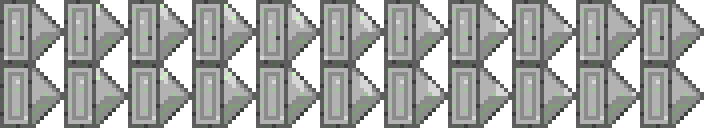
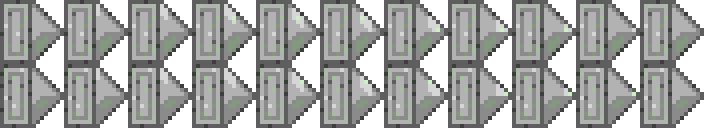
Added death screen

diff --git a/lib/game/game-root.dart b/lib/game/game-root.dart
@@ -5,7 +5,6 @@ import 'package:meta/meta.dart';
 import 'package:flame/flame.dart';
 import 'package:flame/game.dart';
 import 'package:flame/text_config.dart';
-import 'package:flame/components/component.dart';
 
 import 'package:flutter/gestures.dart';
 
@@ -15,6 +14,7 @@ import 'package:ordered_set/comparing.dart';
 import 'package:game_one/model.dart';
 import 'package:game_one/game/player.dart';
 import 'package:game_one/game/row.dart';
+import 'package:game_one/game/you-died.dart';
 import 'package:game_one/game/components/text.dart';
 import 'package:game_one/game/components/base.dart';
 
@@ -30,6 +30,7 @@ class GameRoot extends Game {
 
   Player player;
   GameRow lastRow;
+  YouDied deathScreen;
 
   GameText rowDebugText;
 
@@ -40,28 +41,31 @@ class GameRoot extends Game {
   void init() async {
     resize(await Flame.util.initialDimensions());
 
-    Flame.util.addGestureRecognizer(_createDragRecognizer());
-    Flame.util.addGestureRecognizer(_createTapRecognizer());
-
     rand = Random();
 
     await Flame.images.loadAll(<String>[
       'flame.png',
-      'flame-1.png',
-      'flame-2.png',
-      'flame-3.png',
-      'flame-4.png',
-      'flame-5.png',
+      'ground-0.png',
       'ground-1.png',
       'ground-2.png',
       'ground-3.png',
-      'ground-4.png',
+      'wall-0-L.png',
       'wall-1-L.png',
       'wall-2-L.png',
-      'wall-3-L.png',
+      'wall-0-R.png',
       'wall-1-R.png',
       'wall-2-R.png',
-      'wall-3-R.png',
+      'death-screen-10.png',
+      'death-screen-20.png',
+      'death-screen-30.png',
+      'death-screen-40.png',
+      'death-screen-50.png',
+      'death-screen-60.png',
+      'death-screen-70.png',
+      'death-screen-80.png',
+      'death-screen-90.png',
+      'death-screen-100.png',
+      'restart.png',
     ]);
 
     print('INITIALIZED GAME');
@@ -72,6 +76,7 @@ class GameRoot extends Game {
     posX = screenSize.width / 2;
     rowsAdded = 0;
     hasLost = false;
+    deathScreen = null;
 
     resize(screenSize);
 
@@ -185,11 +190,15 @@ class GameRoot extends Game {
       hasLost = true;
 
       player.die();
+      deathScreen = YouDied(model: this.model);
+      add(deathScreen);
+      deathScreen.init();
     }
   }
 
   void _updateLost(double t) {
     player.update(t);
+    deathScreen.update(t);
   }
 
   @override
@@ -207,21 +216,9 @@ class GameRoot extends Game {
     posX = position.dx;
   }
 
-  void handleTap(TapUpDetails details) {
-  }
-
-
-  // Util functions
-  GestureRecognizer _createDragRecognizer() {
-    PanGestureRecognizer pan = new PanGestureRecognizer();
-    pan.onDown   = (DragDownDetails position)   => this.handleDrag(position.globalPosition);
-    pan.onUpdate = (DragUpdateDetails position) => this.handleDrag(position.globalPosition);
-    return pan;
-  }
-
-  TapGestureRecognizer _createTapRecognizer() {
-    TapGestureRecognizer tapper = new TapGestureRecognizer();
-    tapper.onTapUp = (TapUpDetails details) => this.handleTap(details);
-    return tapper;
+  void handleTap(Offset position) {
+    if (deathScreen?.canRestart ?? false) {
+      reset();
+    }
   }
 }

diff --git a/lib/game/you-died.dart b/lib/game/you-died.dart
@@ -1,0 +1,83 @@
+import 'package:flame/animation.dart';
+import 'package:flame/sprite.dart';
+import 'package:game_one/game/components/animation.dart';
+import 'package:game_one/game/components/meta.dart';
+import 'package:game_one/model.dart';
+
+class YouDied extends MetaComp {
+  GameAnimation sprite;
+  GameAnimation restart;
+  Animation     anim;
+  DataModel     model;
+
+  YouDied({this.model});
+
+  void init() => _youDied();
+
+  void _youDied() {
+    Sprite s01 = Sprite('death-screen-10.png');
+    Sprite s02 = Sprite('death-screen-20.png');
+    Sprite s03 = Sprite('death-screen-30.png');
+    Sprite s04 = Sprite('death-screen-40.png');
+    Sprite s05 = Sprite('death-screen-50.png');
+    Sprite s06 = Sprite('death-screen-60.png');
+    Sprite s07 = Sprite('death-screen-70.png');
+    Sprite s08 = Sprite('death-screen-80.png');
+    Sprite s09 = Sprite('death-screen-90.png');
+    Sprite s10 = Sprite('death-screen-100.png');
+
+    List<Frame> frames = <Frame>[
+      Frame(s01, model.animation.deathScreen),
+      Frame(s02, model.animation.deathScreen),
+      Frame(s03, model.animation.deathScreen),
+      Frame(s04, model.animation.deathScreen),
+      Frame(s05, model.animation.deathScreen),
+      Frame(s06, model.animation.deathScreen),
+      Frame(s07, model.animation.deathScreen),
+      Frame(s06, model.animation.deathScreen),
+      Frame(s05, model.animation.deathScreen),
+      Frame(s04, model.animation.deathScreen),
+      Frame(s05, model.animation.deathScreen),
+      Frame(s06, model.animation.deathScreen),
+      Frame(s07, model.animation.deathScreen),
+      Frame(s08, model.animation.deathScreen),
+      Frame(s09, model.animation.deathScreen),
+      Frame(s10, model.animation.deathScreen),
+    ];
+
+    anim   = Animation(frames, loop: false);
+    sprite = GameAnimation.rectangle(5, 4.5, anim);
+    add(sprite);
+    sprite.x = size.width  / 2 - sprite.width  / 2;
+    sprite.y = size.height / 2 - sprite.height / 1.5;
+  }
+
+  void _tapToRestart() {
+    restart = GameAnimation.rectangle(
+      4,
+      0.5,
+      Animation.sequenced(
+        'restart.png',
+        2,
+        textureHeight: 64,
+        textureWidth:  512,
+        stepTime:      model.animation.tap2restart,
+      )
+    );
+
+    add(restart);
+    restart.x = size.width / 2 - restart.width / 2;
+    restart.y = sprite.toRect().bottom + restart.height;
+  }
+
+  @override
+  void update(double t) {
+    super.update(t);
+
+    if (restart == null && anim.isLastFrame) {
+      _tapToRestart();
+    }
+  }
+
+  bool get canRestart => restart != null;
+}

diff --git a/lib/model.dart b/lib/model.dart
@@ -7,6 +7,8 @@ class AnimationData {
   double playerSpeed;
   double wallSpeed;
   double wallPause;
+  double deathScreen;
+  double tap2restart;
 
   AnimationData() { reset(); }
 
@@ -14,18 +16,24 @@ class AnimationData {
     playerSpeed = prefs.getDouble( PREFIX + 'playerSpeed' ) ?? playerSpeed;
     wallSpeed   = prefs.getDouble( PREFIX + 'wallSpeed'   ) ?? wallSpeed;
     wallPause   = prefs.getDouble( PREFIX + 'wallPause'   ) ?? wallPause;
+    deathScreen = prefs.getDouble( PREFIX + 'deathScreen' ) ?? deathScreen;
+    tap2restart = prefs.getDouble( PREFIX + 'tap2restart' ) ?? tap2restart;
   }
 
   void save(SharedPreferences prefs) async {
     await prefs.setDouble( PREFIX + 'playerSpeed', playerSpeed );
     await prefs.setDouble( PREFIX + 'wallSpeed',   wallSpeed );
     await prefs.setDouble( PREFIX + 'wallPause',   wallPause );
+    await prefs.setDouble( PREFIX + 'deathScreen', deathScreen );
+    await prefs.setDouble( PREFIX + 'tap2restart', tap2restart );
   }
 
   void reset() {
     playerSpeed = 0.05;
     wallSpeed   = 0.05;
     wallPause   = 0.40;
+    deathScreen = 0.09;
+    tap2restart = 1.00;
   }
 }
 

diff --git a/lib/tabs/settings.dart b/lib/tabs/settings.dart
@@ -44,6 +44,22 @@ class _SettingsState extends State<Settings> {
                   onChangedEnd: (val) => model.animation.wallPause = val
                 ),
 
+                CardSettingsSlider(
+                  label: 'Death screen speed',
+                  initialValue: model.animation.deathScreen,
+                  min: 0.01,
+                  max: 0.25,
+                  onChangedEnd: (val) => model.animation.deathScreen = val
+                ),
+
+                CardSettingsSlider(
+                  label: 'Tab to restart blink speed',
+                  initialValue: model.animation.tap2restart,
+                  min: 0.3,
+                  max: 1.9,
+                  onChangedEnd: (val) => model.animation.tap2restart = val
+                ),
+
               ]
             ),
 

diff --git a/lib/game/row.dart b/lib/game/row.dart
@@ -19,7 +19,7 @@ class GameRow extends MetaComp {
 
     // Generate the background tiles
     for (int i = 0; i < model.game.numTiles; i++) {
-      int tileIDX = rand.nextInt(3) + 1;
+      int tileIDX = rand.nextInt(4);
       GameSprite sp = GameSprite.square(1, 'ground-$tileIDX.png');
       add(sp);
 
@@ -31,12 +31,12 @@ class GameRow extends MetaComp {
     // Generate the border
     for (int i = 0; i < model.game.numTiles; i++) {
       if (leftB == i) {
-        int tileIDX = rand.nextInt(2) + 1;
+        int tileIDX = rand.nextInt(3);
         _generateBoder('wall-$tileIDX-L.png', i, 0);
       }
 
       if (rightB == i) {
-        int tileIDX = rand.nextInt(2) + 1;
+        int tileIDX = rand.nextInt(3);
         _generateBoder('wall-$tileIDX-R.png', i, 0.5 * tileSize);
       }
     }

diff --git a/lib/main.dart b/lib/main.dart
@@ -60,7 +60,14 @@ class GameWrapper extends StatelessWidget {
 
   @override
   Widget build(BuildContext context) {
-    return game.widget;
+    return GestureDetector(
+      onTapUp:     (TapUpDetails ev)      => game.handleTap(ev.globalPosition),
+      onPanDown:   (DragDownDetails ev)   => game.handleDrag(ev.globalPosition),
+      onPanUpdate: (DragUpdateDetails ev) => game.handleDrag(ev.globalPosition),
+
+      behavior: HitTestBehavior.opaque,
+      child:    game.widget,
+    );
   }
 }
 
